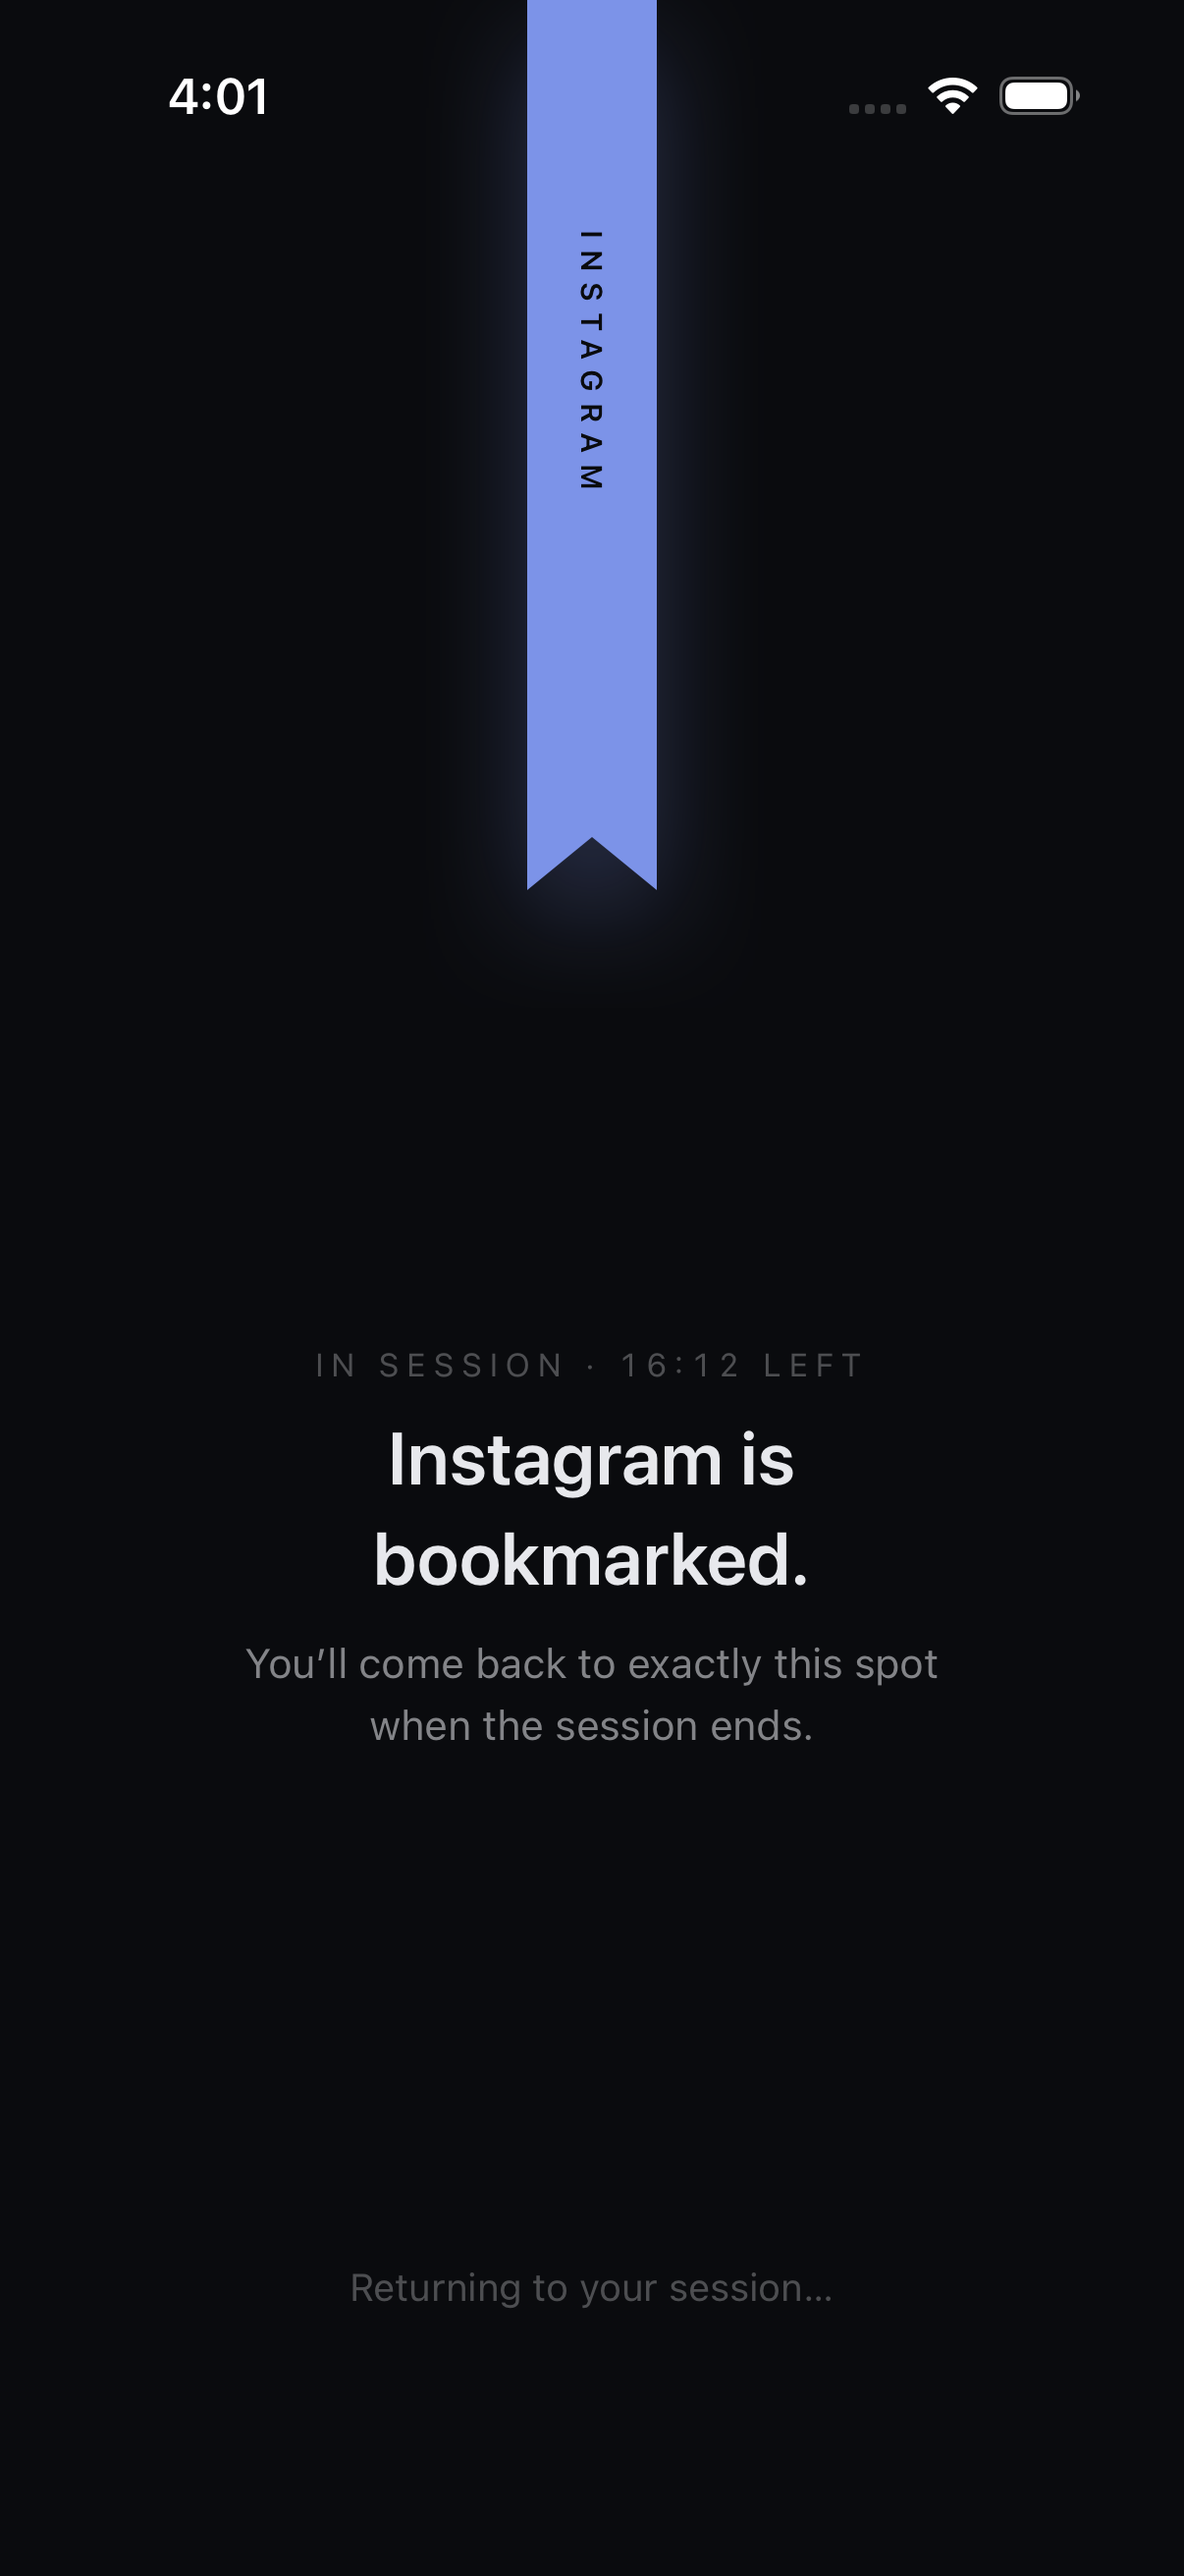
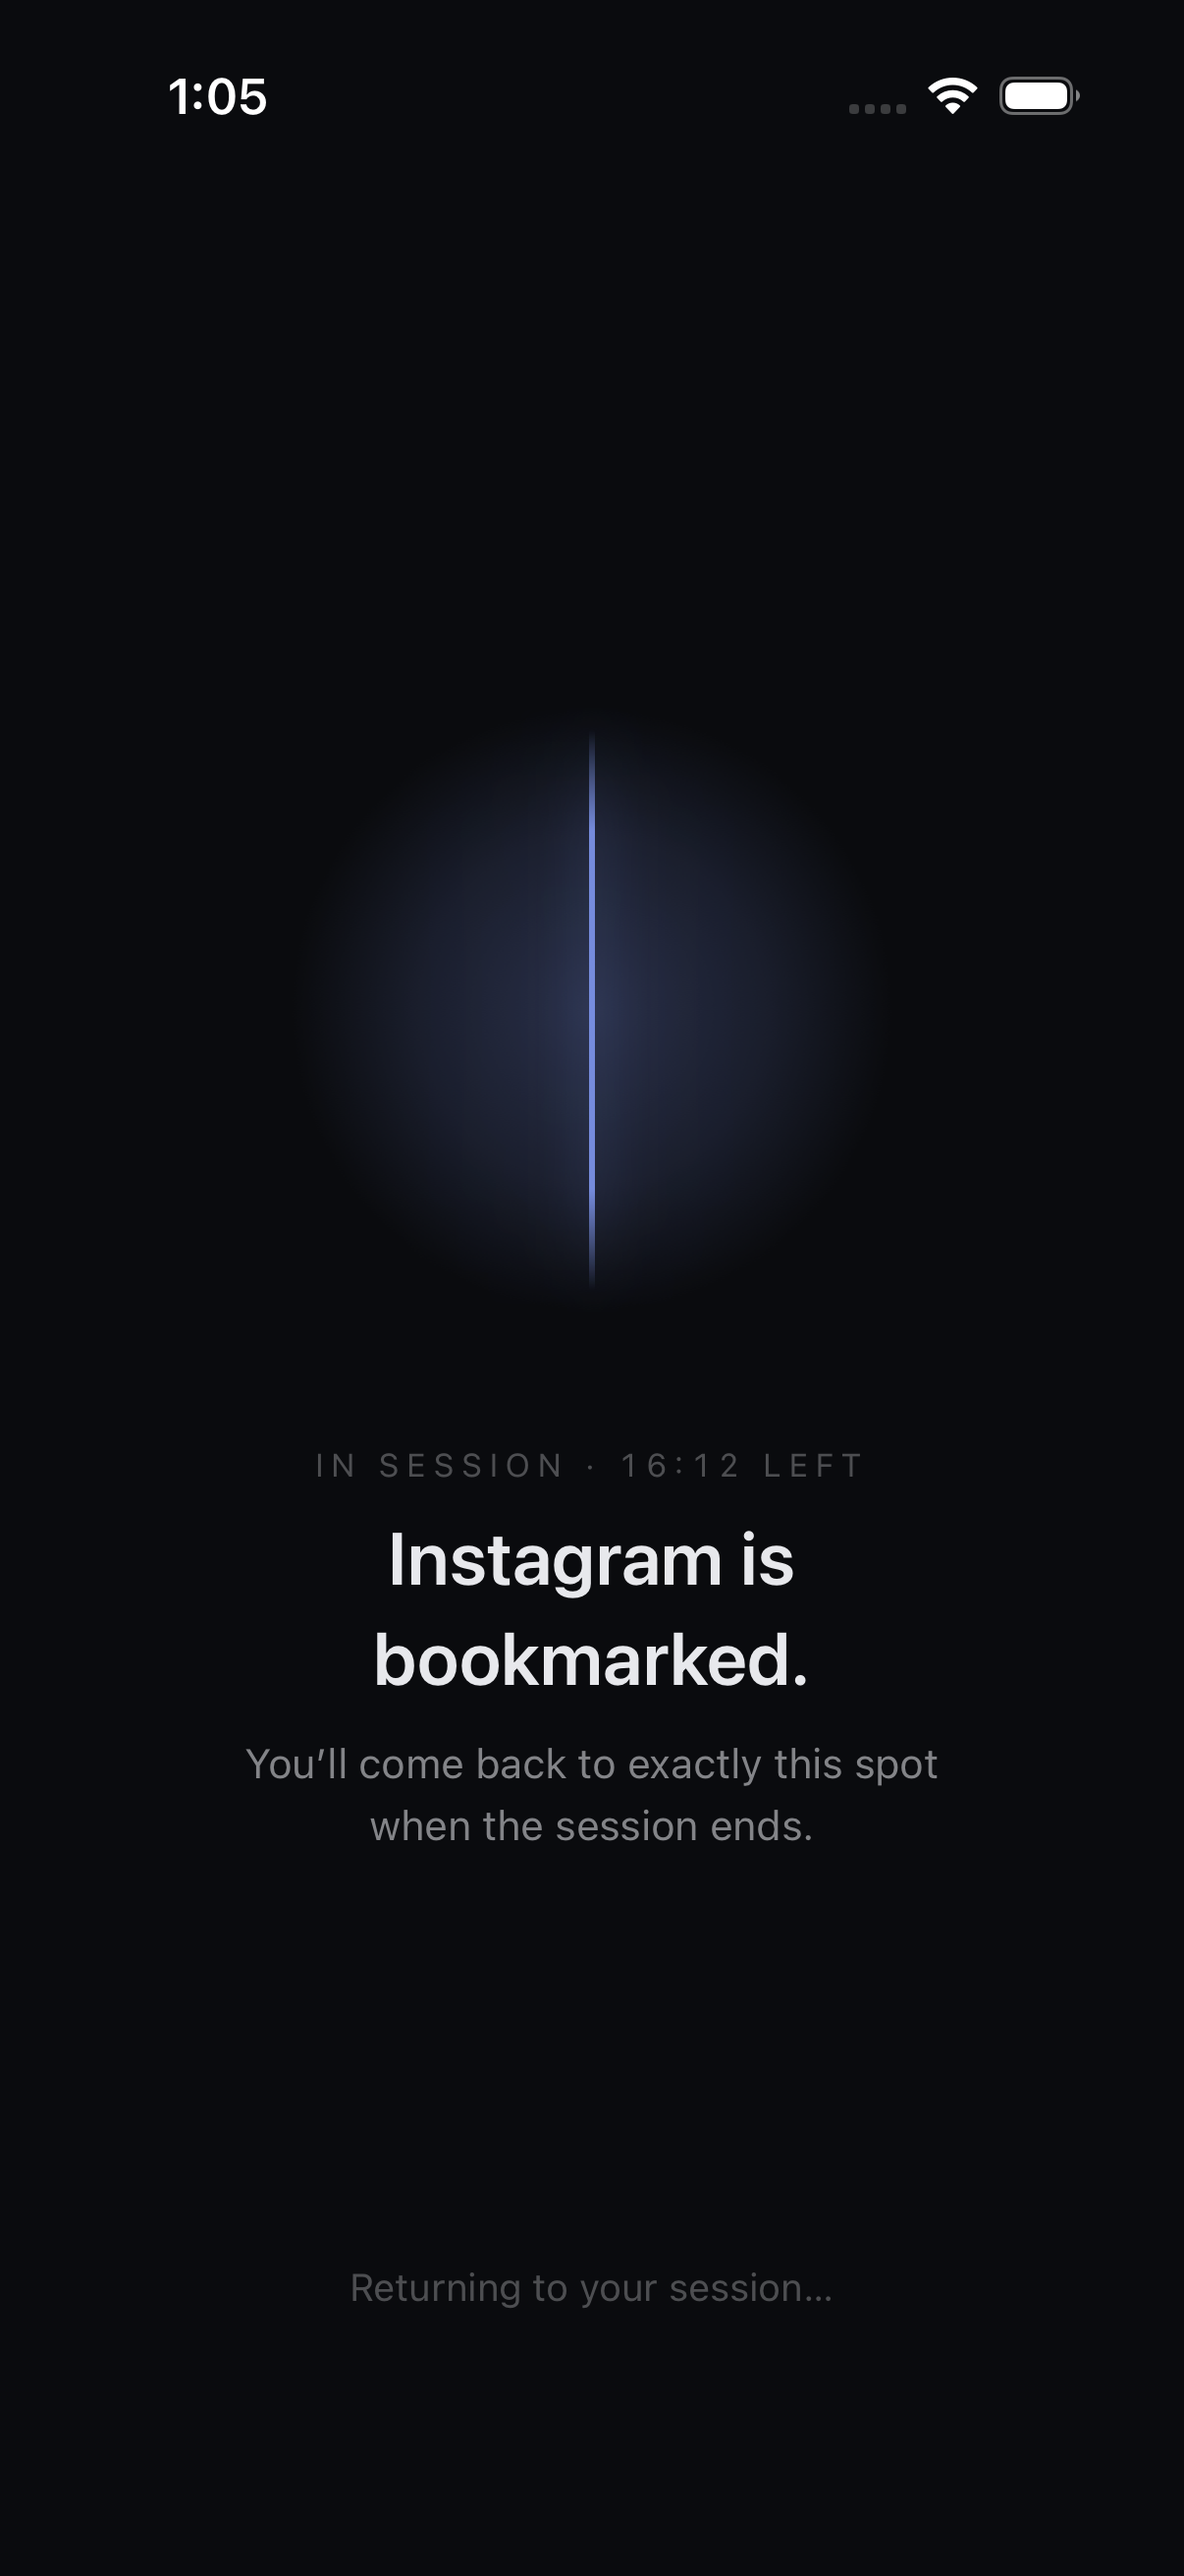
feat(session): the door at full size, where we own the canvas
The block screen cannot render the comp's door. Its icon slot is fixed
at ~82pt, measured twice on device and independently: the old 44x302
ribbon came back 12x82, which pins the slot's height on its own, and the
alignment-rect build changed nothing. The comp draws a 190pt seam. Three
rounds of widening and brightening it did not close that gap because the
gap is height, and height is the one thing not on offer.

So the door goes where nothing clamps it. QuietDoor is the comp's own
numbers as vectors rather than a bitmap: 2 x 190 seam with the 18% / 82%
fade, the 220 x 280 halo, and the two blooms drawn as blurred copies
because SwiftUI's .shadow does not stack the way CSS box-shadow does. It
also breathes on the comp's 9s cycle, which a still ShieldConfiguration
icon never could, and it stops breathing under Reduce Motion.

It takes the ribbon's place on 03b, the screen shown on the way back
from the block. ShieldRibbon and its tests stay put; reverting is one
line.

74 unit tests pass. Release installed on the device.

diff --git a/Zenly/Views/Session/QuietDoor.swift b/Zenly/Views/Session/QuietDoor.swift
@@ -1,0 +1,125 @@
+//
+//  QuietDoor.swift
+//  Zenly
+//
+//  The door from the Quiet comp, at the size it is drawn.
+//
+//      halo: 220 x 280, radial-gradient(50% 50% at 50% 50%,
+//                                       var(--tone-glow), transparent 70%)
+//      line: 2 x 190, radius 1,
+//            linear-gradient(to bottom, transparent, var(--tone) 18%,
+//                            var(--tone) 82%, transparent);
+//            box-shadow: 0 0 18px 2px var(--tone-glow),
+//                        0 0 60px 14px var(--tone-glow);
+//      animation: qglow 9s ease-in-out infinite;
+//
+//  `ShieldDoor` draws the same door for the block screen and has to fit it in
+//  an icon slot iOS fixes at ~82 points, so it loses three-fifths of its height
+//  and compensates with a heavier line. Nothing is clamped here. Every number
+//  above is the comp's own, and the drawing is vectors rather than a bitmap, so
+//  it is sharp at any size and the halo can breathe the way the comp does — the
+//  one thing a `ShieldConfiguration` icon could never do, being a still image.
+//
+//  `height` scales the whole drawing about the seam, so the comp's proportions
+//  hold wherever it is placed.
+//
+
+import SwiftUI
+
+struct QuietDoor: View {
+    var tone: Color
+    /// The seam's length. The comp draws 190; everything else is derived.
+    var height: CGFloat = 190
+    /// The comp's 9s `qglow`. Off for a still capture.
+    var isBreathing: Bool = true
+
+    /// Honoured explicitly: a slow pulse behind text is exactly the kind of
+    /// motion that Reduce Motion exists to stop.
+    @Environment(\.accessibilityReduceMotion) private var reduceMotion
+
+    @State private var isOpen = false
+
+    /// Comp ratios, all against the 190pt line.
+    private var scale: CGFloat { height / 190 }
+    private var lineWidth: CGFloat { 2 * scale }
+    private var haloWidth: CGFloat { 220 * scale }
+    private var haloHeight: CGFloat { 280 * scale }
+
+    private var breathes: Bool { isBreathing && !reduceMotion }
+
+    var body: some View {
+        ZStack {
+            halo
+            seam
+        }
+        .frame(width: haloWidth, height: haloHeight)
+        .onAppear {
+            guard breathes else { return }
+            withAnimation(.easeInOut(duration: 4.5).repeatForever(autoreverses: true)) {
+                isOpen = true
+            }
+        }
+        .accessibilityHidden(true)
+    }
+
+    /// `radial-gradient(..., var(--tone-glow), transparent 70%)` on the comp's
+    /// 220 x 280 ellipse. Drawn as an ellipse rather than a scaled circle so the
+    /// gradient stays true at the edges.
+    private var halo: some View {
+        Ellipse()
+            .fill(
+                RadialGradient(
+                    stops: [
+                        .init(color: tone.opacity(0.30), location: 0),
+                        .init(color: tone.opacity(0.16), location: 0.42),
+                        .init(color: tone.opacity(0), location: 0.72)
+                    ],
+                    center: .center,
+                    startRadius: 0,
+                    endRadius: haloHeight / 2
+                )
+            )
+            .scaleEffect(isOpen ? 1.06 : 0.97)
+            .opacity(isOpen ? 1.0 : 0.72)
+    }
+
+    /// The seam, with the comp's two blooms around it.
+    ///
+    /// SwiftUI's `.shadow` does not stack the way CSS's comma-separated
+    /// `box-shadow` does — a second modifier shadows the *result* of the first,
+    /// which smears rather than deepens. So the two blooms are drawn as two
+    /// blurred copies of the seam behind the sharp one, which is what the comp's
+    /// `0 0 18px` and `0 0 60px` actually look like.
+    private var seam: some View {
+        ZStack {
+            line.blur(radius: 30 * scale).opacity(0.55)   // 0 0 60px 14px
+            line.blur(radius: 9 * scale).opacity(0.85)    // 0 0 18px 2px
+            line
+        }
+        .opacity(isOpen ? 1.0 : 0.86)
+    }
+
+    private var line: some View {
+        Capsule()
+            .fill(
+                LinearGradient(
+                    stops: [
+                        .init(color: tone.opacity(0), location: 0),
+                        .init(color: tone, location: 0.18),
+                        .init(color: tone, location: 0.82),
+                        .init(color: tone.opacity(0), location: 1)
+                    ],
+                    startPoint: .top,
+                    endPoint: .bottom
+                )
+            )
+            .frame(width: lineWidth, height: height)
+    }
+}
+
+#Preview {
+    ZStack {
+        Color(hex: "0A0B0E").ignoresSafeArea()
+        QuietDoor(tone: Color(hex: "7C93E8"))
+    }
+}

diff --git a/Zenly/Views/Session/AppPausedView.swift b/Zenly/Views/Session/AppPausedView.swift
@@ -6,10 +6,10 @@
 //
 //  Screen 03 is the block screen itself, and iOS draws that one: you tap "Back
 //  to focus" there and the app you reached for closes. 03b is what Zen-ly shows
-//  when you come back to it — the ribbon at the size the comp draws it, and a
+//  when you come back to it — the door at the size the comp draws it, and a
 //  sentence saying the thing you reached for has been kept, not taken.
 //
-//      [ribbon, INSTAGRAM running down it]
+//      [door — 190pt seam, breathing]
 //      IN SESSION · 16:12 LEFT
 //      Instagram is bookmarked.
 //      You'll come back to exactly this spot when the session ends.
@@ -18,11 +18,17 @@
 //  No buttons. It is a receipt, not a decision — it says its piece and hands
 //  you back to the timer on its own.
 //
-//  This is the surface that can hold the ribbon. The shield cannot: its icon is
-//  aspect-fit into a box of about 80 points, and the ribbon is 302 tall. Here
+//  **This is the only surface in the flow that can hold the door at full size.**
+//  The block screen cannot, and that is a hard limit rather than a shortfall:
+//  `ShieldConfiguration.icon` is aspect-fit into a box iOS fixes at ~82 points,
+//  measured twice on device (see `ShieldDoor.icon`), so the comp's 190pt seam
+//  arrives there at well under half its height no matter what is drawn. Here
 //  nothing is clamped and nothing composites over the background, so the comp's
-//  44 x 302, its .34em name, its tracked eyebrow and its flat #0A0B0E all land
-//  as drawn.
+//  190pt line, its 220 x 280 halo, its 9s breath, its tracked eyebrow and its
+//  flat #0A0B0E all land exactly as drawn.
+//
+//  This replaced the ribbon, which had been standing in at this spot. The
+//  ribbon still exists in `ShieldRibbon` and coming back to it is one line.
 //
 
 import SwiftUI
@@ -44,10 +50,11 @@ struct AppPausedView: View {
         ZStack(alignment: .top) {
             Color(hex: "0A0B0E").ignoresSafeArea()
 
-            ribbon
-
             VStack(spacing: 0) {
                 Spacer(minLength: 0)
+
+                QuietDoor(tone: tone)
+                    .padding(.bottom, 8)
 
                 if let eyebrow {
                     Text(eyebrow)
@@ -81,8 +88,6 @@ struct AppPausedView: View {
                     .padding(.bottom, 56)
             }
             .padding(.horizontal, 40)
-            // The comp's text block begins below the ribbon's 302pt drop.
-            .padding(.top, 220)
         }
         .contentShape(Rectangle())
         // Tapping should not be required, but waiting should not be either.
@@ -96,20 +101,6 @@ struct AppPausedView: View {
         // inside it from VoiceOver's rotor as much as from the tests.
         .accessibilityElement(children: .contain)
         .accessibilityIdentifier("app-paused")
-    }
-
-    /// The comp's ribbon at its own size — 44 x 302, hanging off the top edge,
-    /// the bookmarked app's name running down it.
-    @ViewBuilder
-    private var ribbon: some View {
-        if let image = ShieldRibbon.comp(subject: subject, tone: UIColor(tone)) {
-            Image(uiImage: image)
-                .resizable()
-                .scaledToFit()
-                .frame(width: ShieldRibbon.compCanvasWidth)
-                .ignoresSafeArea(edges: .top)
-                .accessibilityHidden(true)
-        }
     }
 
     /// "IN SESSION · 16:12 LEFT".
